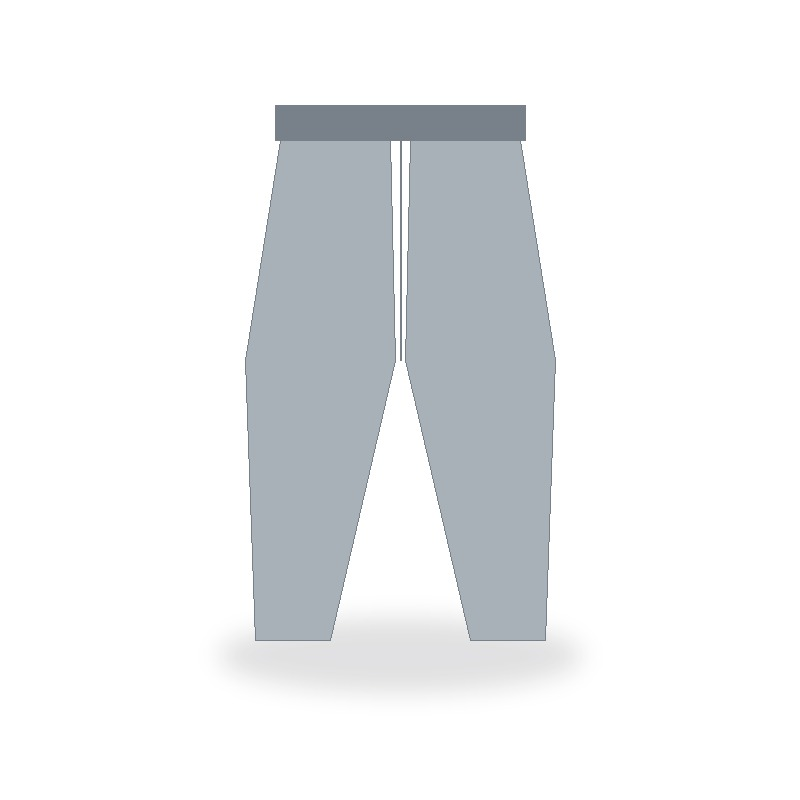
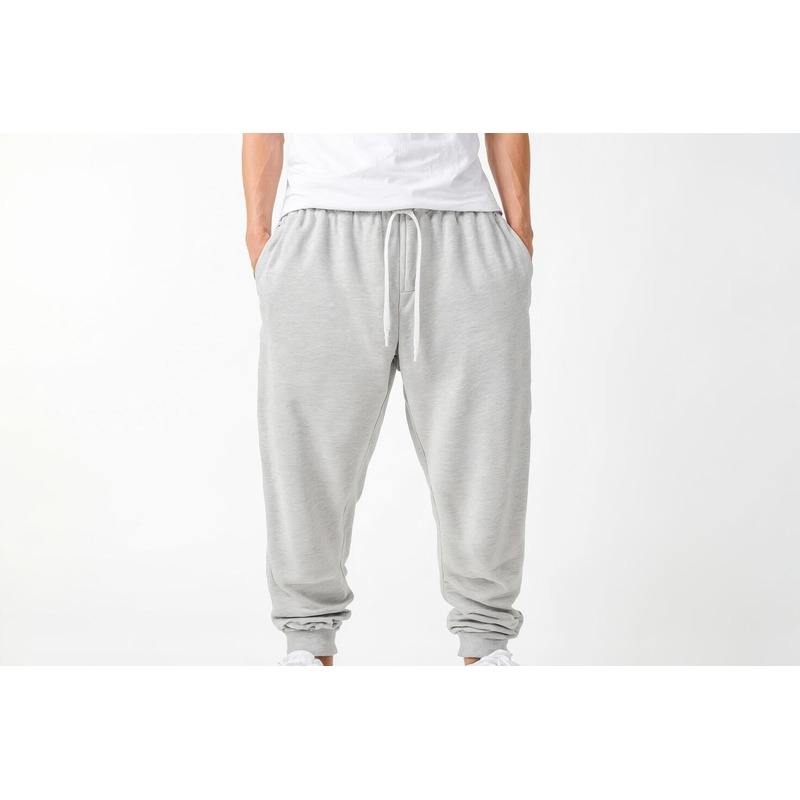
feat: 预置商品图替换为真实拍摄图；上传前裁剪难度预警；新一轮关卡/内容与交互修复

Changed region(s): [[0.2812, 0.125, 0.7188, 0.875], [0.75, 0.5625, 1.0, 0.8438], [0.9688, 0.1562, 1.0, 0.1875]]

diff --git a/web/app.js b/web/app.js
@@ -253,6 +253,69 @@ function readImageSize(file) {
   });
 }
 
+function loadImageEl(file) {
+  return new Promise((resolve, reject) => {
+    const url = URL.createObjectURL(file);
+    const img = new Image();
+    img.onload = () => {
+      URL.revokeObjectURL(url);
+      resolve(img);
+    };
+    img.onerror = () => {
+      URL.revokeObjectURL(url);
+      reject(new Error("image load failed"));
+    };
+    img.src = url;
+  });
+}
+
+/**
+ * 录入端预检：识别「难以干净抠底」的图片（如人物上身照、杂乱背景）。
+ * 原理：干净商品图四边应基本是纯白/纯色；若边界白像素占比过低，则自动抠底
+ * 大概率残留背景或切不干净，提前告知用户改用「单件平铺、白底」图。
+ */
+async function analyzeCutDifficulty(file) {
+  try {
+    const img = await loadImageEl(file);
+    const W = 64;
+    const H = Math.max(1, Math.round((64 * img.naturalHeight) / img.naturalWidth));
+    const cv = document.createElement("canvas");
+    cv.width = W;
+    cv.height = H;
+    const ctx = cv.getContext("2d");
+    ctx.drawImage(img, 0, 0, W, H);
+    const data = ctx.getImageData(0, 0, W, H).data;
+    const isWhite = (r, g, b) => r > 240 && g > 240 && b > 240;
+    let total = 0;
+    let white = 0;
+    for (let x = 0; x < W; x++) {
+      for (const y of [0, H - 1]) {
+        const i = (y * W + x) * 4;
+        total++;
+        if (isWhite(data[i], data[i + 1], data[i + 2])) white++;
+      }
+    }
+    for (let y = 0; y < H; y++) {
+      for (const x of [0, W - 1]) {
+        const i = (y * W + x) * 4;
+        total++;
+        if (isWhite(data[i], data[i + 1], data[i + 2])) white++;
+      }
+    }
+    const ratio = white / total;
+    const hardToCut = ratio < 0.6;
+    return {
+      hardToCut,
+      ratio,
+      reason: hardToCut
+        ? "背景不是纯白/纯色，自动抠底大概率残留背景或切不干净"
+        : "",
+    };
+  } catch {
+    return { hardToCut: false, ratio: 1, reason: "" };
+  }
+}
+
 function hidePreview() {
   $("#preview-panel").classList.add("hidden");
   $("#preview-img").src = "";
@@ -276,6 +339,9 @@ async function stageFile(file) {
     return;
   }
 
+  // 录入端预检：识别「难以干净抠底」的图片（人物上身照 / 杂乱背景等）
+  const cut = await analyzeCutDifficulty(file);
+
   state.pendingFile = file;
   const panel = $("#preview-panel");
   panel.classList.remove("hidden");
@@ -287,6 +353,11 @@ async function stageFile(file) {
   rows.push(`<div class="pass">✓ 分辨率达标（${check.w}×${check.h}）</div>`);
   rows.push(`<div class="pass">✓ 请再目视确认：单件、无遮挡、完整入镜</div>`);
   for (const w of check.warns) rows.push(`<div class="warn">△ ${w}</div>`);
+  if (cut.hardToCut) {
+    rows.push(
+      `<div class="warn strong">⚠ 这张图${cut.reason}。建议改用「单件平铺、白底/纯色背景」的商品图；若坚持上传，将以原图入柜、由你手动补标签。</div>`
+    );
+  }
   $("#preview-checks").innerHTML = rows.join("");
 
   $("#dropzone").classList.add("disabled");
@@ -500,9 +571,21 @@ function constraintFromOccasion() {
 // 非塔罗入口：生成约束后复用现有展示区（不动 HTML/CSS），提示去结果页生成
 function applyConstraint(c, label) {
   state.constraint = c;
+
+  // 入口页：塔罗卡归位（避免与当前约束来源不一致——修「卡片不同步」）
+  $("#tarot-deck")?.classList.remove("hidden");
+  $("#tarot-flip")?.classList.add("hidden");
+
+  // 调试区可见 constraint（验收 A4）
   $("#constraint-debug").textContent = JSON.stringify(c, null, 2);
+
+  // 结果页：卡片区反映当前来源，不再固定显示「尚未抽牌」
   $("#result-tarot-img").classList.add("hidden");
-  $(".story-card-placeholder")?.classList.remove("hidden");
+  const ph = $(".story-card-placeholder");
+  if (ph) {
+    ph.textContent = `${label} · 已生成约束`;
+    ph.classList.remove("hidden");
+  }
   $("#result-story").textContent = c.story;
   $("#result-reason").textContent = "点「生成今日穿搭」，规则会从衣橱里选一套。";
   $("#result-meta").textContent = "";

diff --git a/web/style.css b/web/style.css
@@ -291,6 +291,15 @@ body {
 .preview-checks .pass { color: var(--ok); }
 .preview-checks .fail { color: var(--danger); }
 .preview-checks .warn { color: var(--warn); }
+.preview-checks .warn.strong {
+  color: var(--danger);
+  background: rgba(220, 80, 80, 0.12);
+  border: 1px solid rgba(220, 80, 80, 0.45);
+  border-radius: 8px;
+  padding: 8px 10px;
+  font-weight: 600;
+  line-height: 1.5;
+}
 .preview-actions { display: flex; gap: 10px; flex-wrap: wrap; }
 
 .upload-error {
